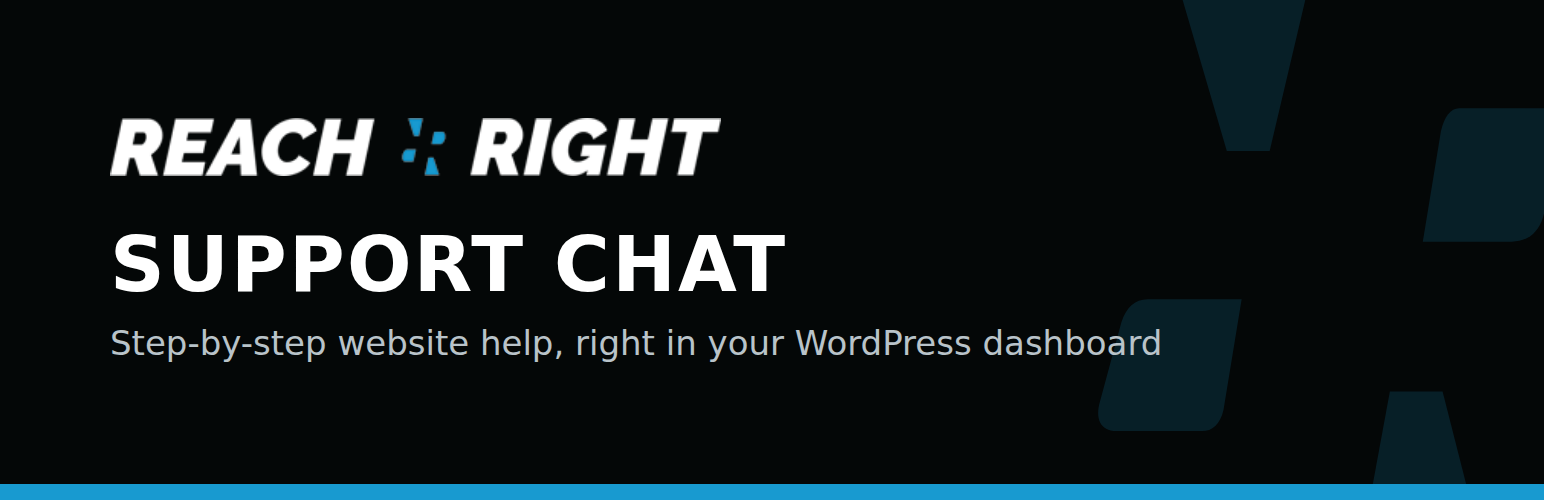
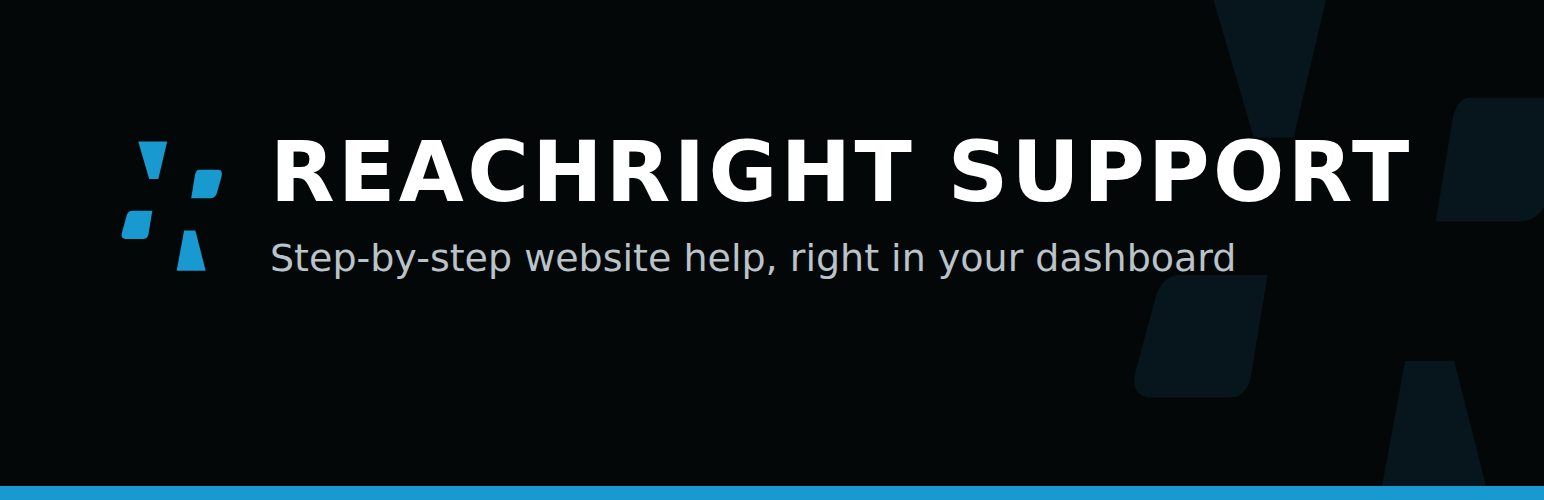
Support chat 1.18.0: new start screen, matching topic buttons, plugin branding

diff --git a/admin.html b/admin.html
@@ -684,7 +684,7 @@
     kbData: user.kbData || null,               // or pass the knowledge object inline
     title: pick("title", "REACHRIGHT SUPPORT"),
     subtitle: pick("subtitle", ""),            // optional line under the title
-    greeting: pick("greeting", "Hi! Ask me how to update your website or fix a problem, and I'll walk you through it step by step."),
+    greeting: pick("greeting", "Hi! How can we help you today?"),
     color: pick("color", "#0e78a8"),          // buttons (readable with white text)
     accent: pick("accent", "#189ad0"),        // brand blue for marks and highlights
     logo: pick("logo", ""),                   // optional header icon URL; defaults to the built-in REACHRIGHT mark
@@ -948,6 +948,7 @@
     ".head .x:hover{background:rgba(255,255,255,.12);opacity:1}",
     /* messages */
     ".log{flex:1;overflow-y:auto;padding:18px 16px;display:flex;flex-direction:column;gap:10px;background:var(--soft)}",
+    ".log > :first-child{margin-top:auto}",
     ".msg{max-width:88%;padding:11px 14px;border-radius:16px;word-wrap:break-word}",
     ".msg p{margin:0 0 8px}.msg p:last-child{margin:0}",
     ".msg a{color:var(--c);font-weight:600}",
@@ -959,6 +960,8 @@
     ".chips{display:flex;flex-wrap:wrap;gap:6px;align-self:flex-start;max-width:calc(100% - 36px);margin-left:36px}",
     ".chip{background:var(--bg);border:1.5px solid var(--line);color:var(--text);border-radius:999px;padding:7px 13px;font:inherit;font-size:13px;font-weight:600;cursor:pointer;text-align:left;transition:border-color .12s,color .12s}",
     ".chip:hover{border-color:var(--accent);color:var(--chipText)}",
+    ".chips.start{flex-wrap:wrap;gap:5px}",
+    ".chips.start .chip{padding:6px 11px;font-size:13px;white-space:nowrap}",
     ".cta{display:inline-block;margin-top:6px;background:var(--c);color:#fff !important;text-decoration:none !important;padding:10px 16px;border-radius:10px;font-size:14px;font-weight:700}",
     ".cta:hover{filter:brightness(1.08)}",
     ".vid{display:flex;align-items:center;gap:12px;width:100%;margin-top:10px;padding:10px 12px;border:1.5px solid var(--line);border-radius:12px;background:var(--soft);color:var(--text);font:inherit;text-align:left;cursor:pointer;transition:border-color .12s}",
@@ -980,9 +983,7 @@
     ".topics[hidden]{display:none}",
     ".tp{background:var(--bg);border:1.5px solid var(--line);color:var(--text);border-radius:999px;padding:3px 8px;font:inherit;font-size:12px;font-weight:600;line-height:1.45;cursor:pointer;transition:border-color .12s,color .12s}",
     ".tp:hover{border-color:var(--accent);color:var(--chipText)}",
-    ".tp.urgent{border-color:#f0c2c2;color:#a12626}",
     ".tp.more{border-style:dashed}",
-    ".tp.urgent:hover{border-color:#d64545}",
     ".topics:not([hidden]) + form.comp{border-top:0}",
     "form.comp{display:flex;gap:8px;padding:12px;border-top:1px solid var(--line);background:var(--bg)}",
     "form.comp textarea{flex:1;resize:none;border:1.5px solid var(--line);border-radius:12px;padding:10px 12px;font:inherit;color:var(--text);background:var(--bg);max-height:110px}",
@@ -1100,13 +1101,13 @@
       el.className = "msg " + who;
       el.innerHTML = html;
       place(el, who);
-      if (save !== false) { history.push({ w: who, h: html }); store("sc_history", history.slice(-60)); }
+      if (save !== false) { history.push({ w: who, h: html }); store("sc_history", history.slice(-60)); updateBar(); }
       scroll();
       return el;
     }
-    function addChips(list, onPick) {
+    function addChips(list, onPick, cls) {
       var box = document.createElement("div");
-      box.className = "chips";
+      box.className = "chips" + (cls ? " " + cls : "");
       list.forEach(function (label) {
         var b = document.createElement("button");
         b.type = "button"; b.className = "chip"; b.textContent = label;
@@ -1554,7 +1555,49 @@
       }
       return out;
     }
-    function starterChips() {
+    var START = [
+      { label: "Website" },
+      { label: "Local SEO", cat: "Local SEO" },
+      { label: "Grant", cat: "Google Ad Grant" },
+      { label: "Billing", cat: "Billing" }
+    ];
+    var WEBSITE_MENU = [
+      { label: "Editing pages", cat: "Editing your website" },
+      { label: "Photos", query: "photo image picture slider gallery" },
+      { label: "Events", cat: "Events" },
+      { label: "Forms", cat: "Forms" },
+      { label: "Login", cat: "Login & users" },
+      { label: "Email", cat: "Email" }
+    ];
+    function openList(item) {
+      if (!engine) return ask(item.label);
+      addMsg("me", esc(item.label));
+      if (item.cat) return showTopic(item.cat, 0);
+      var list = engine.search(item.query, 12).filter(function (h) { return h.qHits > 0; }).map(function (h) { return h.entry; });
+      showTopic(item.label, 0, list);
+    }
+    function startScreen() {
+      if (CFG.suggestions.length) return oldStarterChips();
+      addChips(START.map(function (t) { return t.label; }), function (label) {
+        var t = START.filter(function (x) { return x.label === label; })[0];
+        if (t.cat) return openList(t);
+        addMsg("me", "Website");
+        addMsg("bot", "<p>Sure. What do you need help with on your website?</p>");
+        var menu = WEBSITE_MENU.map(function (m) { return m.label; });
+        if (CFG.downChip && ticketFormOn()) menu.push(CFG.downChip);
+        menu.push("Something else");
+        addChips(menu, function (m) {
+          if (m === CFG.downChip) return goUrgent(m);
+          if (m === "Something else") {
+            addMsg("me", "Something else");
+            return addMsg("bot", "<p>No problem. Tell me in your own words what you're trying to do, or what's going wrong.</p>");
+          }
+          openList(WEBSITE_MENU.filter(function (x) { return x.label === m; })[0]);
+        });
+      }, "start");
+    }
+    function starterChips() { startScreen(); }
+    function oldStarterChips() {
       var chips = pickSuggestions();
       if (CFG.downChip && ticketFormOn()) chips.push(CFG.downChip);
       if (chips.length) addChips(chips, function (label) {
@@ -1590,7 +1633,7 @@
         if (pl.urgent && !(ticketFormOn() && CFG.downChip)) return;
         if (!pl.urgent && !pl.more && engine && !pillList(pl).length) return;   // hide topics with no answers
         var b = document.createElement("button");
-        b.type = "button"; b.className = "tp" + (pl.urgent ? " urgent" : "") + (pl.more ? " more" : ""); b.textContent = pl.label;
+        b.type = "button"; b.className = "tp" + (pl.more ? " more" : ""); b.textContent = pl.label;
         b.addEventListener("click", function () {
           if (busy) return;
           root.querySelectorAll(".chips").forEach(function (c) { c.remove(); });
@@ -1602,7 +1645,11 @@
         });
         box.appendChild(b);
       });
-      box.hidden = !box.children.length;
+      updateBar();
+    }
+    function updateBar() {
+      var box = root.querySelector(".topics");
+      if (box) box.hidden = !box.children.length || history.length <= 1;
     }
     renderPills();
     if (history.length) {
@@ -1706,7 +1753,7 @@
       else if (CFG.contactEmail) location.href = "mailto:" + CFG.contactEmail;
     });
     $(".reset").addEventListener("click", function () {
-      history = []; store("sc_history", []); log.innerHTML = ""; thread = null; misses = 0; greet();
+      history = []; store("sc_history", []); log.innerHTML = ""; thread = null; misses = 0; updateBar(); greet();
     });
     if (store("sc_open")) toggle(true);
 

diff --git a/support-chat.js b/support-chat.js
@@ -35,7 +35,7 @@
     kbData: user.kbData || null,               // or pass the knowledge object inline
     title: pick("title", "REACHRIGHT SUPPORT"),
     subtitle: pick("subtitle", ""),            // optional line under the title
-    greeting: pick("greeting", "Hi! Ask me how to update your website or fix a problem, and I'll walk you through it step by step."),
+    greeting: pick("greeting", "Hi! How can we help you today?"),
     color: pick("color", "#0e78a8"),          // buttons (readable with white text)
     accent: pick("accent", "#189ad0"),        // brand blue for marks and highlights
     logo: pick("logo", ""),                   // optional header icon URL; defaults to the built-in REACHRIGHT mark
@@ -299,6 +299,7 @@
     ".head .x:hover{background:rgba(255,255,255,.12);opacity:1}",
     /* messages */
     ".log{flex:1;overflow-y:auto;padding:18px 16px;display:flex;flex-direction:column;gap:10px;background:var(--soft)}",
+    ".log > :first-child{margin-top:auto}",
     ".msg{max-width:88%;padding:11px 14px;border-radius:16px;word-wrap:break-word}",
     ".msg p{margin:0 0 8px}.msg p:last-child{margin:0}",
     ".msg a{color:var(--c);font-weight:600}",
@@ -310,6 +311,8 @@
     ".chips{display:flex;flex-wrap:wrap;gap:6px;align-self:flex-start;max-width:calc(100% - 36px);margin-left:36px}",
     ".chip{background:var(--bg);border:1.5px solid var(--line);color:var(--text);border-radius:999px;padding:7px 13px;font:inherit;font-size:13px;font-weight:600;cursor:pointer;text-align:left;transition:border-color .12s,color .12s}",
     ".chip:hover{border-color:var(--accent);color:var(--chipText)}",
+    ".chips.start{flex-wrap:wrap;gap:5px}",
+    ".chips.start .chip{padding:6px 11px;font-size:13px;white-space:nowrap}",
     ".cta{display:inline-block;margin-top:6px;background:var(--c);color:#fff !important;text-decoration:none !important;padding:10px 16px;border-radius:10px;font-size:14px;font-weight:700}",
     ".cta:hover{filter:brightness(1.08)}",
     ".vid{display:flex;align-items:center;gap:12px;width:100%;margin-top:10px;padding:10px 12px;border:1.5px solid var(--line);border-radius:12px;background:var(--soft);color:var(--text);font:inherit;text-align:left;cursor:pointer;transition:border-color .12s}",
@@ -331,9 +334,7 @@
     ".topics[hidden]{display:none}",
     ".tp{background:var(--bg);border:1.5px solid var(--line);color:var(--text);border-radius:999px;padding:3px 8px;font:inherit;font-size:12px;font-weight:600;line-height:1.45;cursor:pointer;transition:border-color .12s,color .12s}",
     ".tp:hover{border-color:var(--accent);color:var(--chipText)}",
-    ".tp.urgent{border-color:#f0c2c2;color:#a12626}",
     ".tp.more{border-style:dashed}",
-    ".tp.urgent:hover{border-color:#d64545}",
     ".topics:not([hidden]) + form.comp{border-top:0}",
     "form.comp{display:flex;gap:8px;padding:12px;border-top:1px solid var(--line);background:var(--bg)}",
     "form.comp textarea{flex:1;resize:none;border:1.5px solid var(--line);border-radius:12px;padding:10px 12px;font:inherit;color:var(--text);background:var(--bg);max-height:110px}",
@@ -451,13 +452,13 @@
       el.className = "msg " + who;
       el.innerHTML = html;
       place(el, who);
-      if (save !== false) { history.push({ w: who, h: html }); store("sc_history", history.slice(-60)); }
+      if (save !== false) { history.push({ w: who, h: html }); store("sc_history", history.slice(-60)); updateBar(); }
       scroll();
       return el;
     }
-    function addChips(list, onPick) {
+    function addChips(list, onPick, cls) {
       var box = document.createElement("div");
-      box.className = "chips";
+      box.className = "chips" + (cls ? " " + cls : "");
       list.forEach(function (label) {
         var b = document.createElement("button");
         b.type = "button"; b.className = "chip"; b.textContent = label;
@@ -905,7 +906,49 @@
       }
       return out;
     }
-    function starterChips() {
+    var START = [
+      { label: "Website" },
+      { label: "Local SEO", cat: "Local SEO" },
+      { label: "Grant", cat: "Google Ad Grant" },
+      { label: "Billing", cat: "Billing" }
+    ];
+    var WEBSITE_MENU = [
+      { label: "Editing pages", cat: "Editing your website" },
+      { label: "Photos", query: "photo image picture slider gallery" },
+      { label: "Events", cat: "Events" },
+      { label: "Forms", cat: "Forms" },
+      { label: "Login", cat: "Login & users" },
+      { label: "Email", cat: "Email" }
+    ];
+    function openList(item) {
+      if (!engine) return ask(item.label);
+      addMsg("me", esc(item.label));
+      if (item.cat) return showTopic(item.cat, 0);
+      var list = engine.search(item.query, 12).filter(function (h) { return h.qHits > 0; }).map(function (h) { return h.entry; });
+      showTopic(item.label, 0, list);
+    }
+    function startScreen() {
+      if (CFG.suggestions.length) return oldStarterChips();
+      addChips(START.map(function (t) { return t.label; }), function (label) {
+        var t = START.filter(function (x) { return x.label === label; })[0];
+        if (t.cat) return openList(t);
+        addMsg("me", "Website");
+        addMsg("bot", "<p>Sure. What do you need help with on your website?</p>");
+        var menu = WEBSITE_MENU.map(function (m) { return m.label; });
+        if (CFG.downChip && ticketFormOn()) menu.push(CFG.downChip);
+        menu.push("Something else");
+        addChips(menu, function (m) {
+          if (m === CFG.downChip) return goUrgent(m);
+          if (m === "Something else") {
+            addMsg("me", "Something else");
+            return addMsg("bot", "<p>No problem. Tell me in your own words what you're trying to do, or what's going wrong.</p>");
+          }
+          openList(WEBSITE_MENU.filter(function (x) { return x.label === m; })[0]);
+        });
+      }, "start");
+    }
+    function starterChips() { startScreen(); }
+    function oldStarterChips() {
       var chips = pickSuggestions();
       if (CFG.downChip && ticketFormOn()) chips.push(CFG.downChip);
       if (chips.length) addChips(chips, function (label) {
@@ -941,7 +984,7 @@
         if (pl.urgent && !(ticketFormOn() && CFG.downChip)) return;
         if (!pl.urgent && !pl.more && engine && !pillList(pl).length) return;   // hide topics with no answers
         var b = document.createElement("button");
-        b.type = "button"; b.className = "tp" + (pl.urgent ? " urgent" : "") + (pl.more ? " more" : ""); b.textContent = pl.label;
+        b.type = "button"; b.className = "tp" + (pl.more ? " more" : ""); b.textContent = pl.label;
         b.addEventListener("click", function () {
           if (busy) return;
           root.querySelectorAll(".chips").forEach(function (c) { c.remove(); });
@@ -953,7 +996,11 @@
         });
         box.appendChild(b);
       });
-      box.hidden = !box.children.length;
+      updateBar();
+    }
+    function updateBar() {
+      var box = root.querySelector(".topics");
+      if (box) box.hidden = !box.children.length || history.length <= 1;
     }
     renderPills();
     if (history.length) {
@@ -1057,7 +1104,7 @@
       else if (CFG.contactEmail) location.href = "mailto:" + CFG.contactEmail;
     });
     $(".reset").addEventListener("click", function () {
-      history = []; store("sc_history", []); log.innerHTML = ""; thread = null; misses = 0; greet();
+      history = []; store("sc_history", []); log.innerHTML = ""; thread = null; misses = 0; updateBar(); greet();
     });
     if (store("sc_open")) toggle(true);
 
